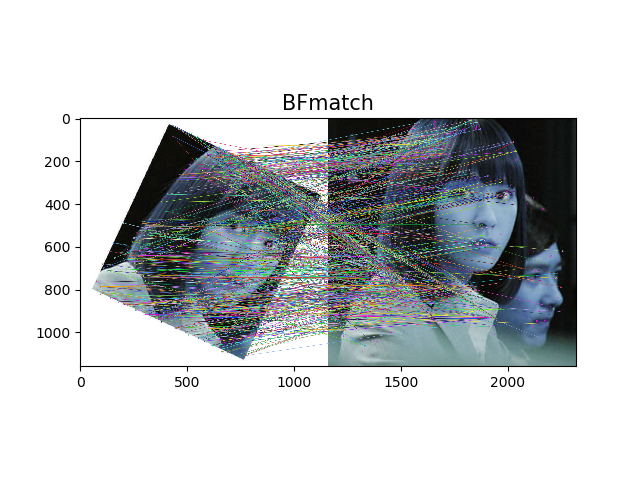
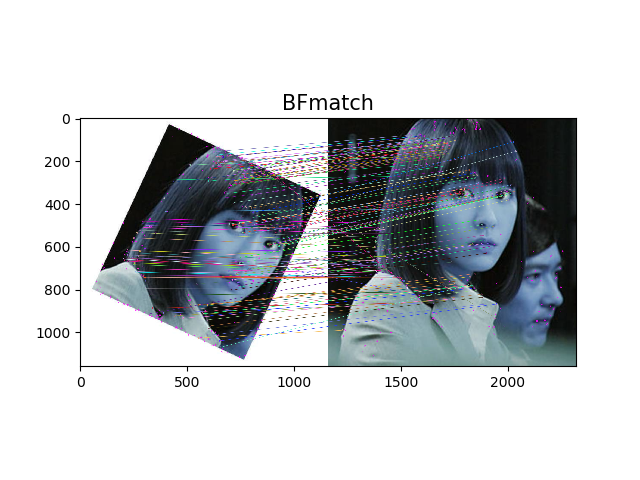
update

Changed region(s): [[0.1562, 0.25, 0.875, 0.75]]

diff --git a/4.Local Feature/SIFT_BFMatcher.py b/4.Local Feature/SIFT_BFMatcher.py
@@ -38,7 +38,7 @@ for m, n in matches:
     if m.distance < 0.75 * n.distance:
         good.append([m])
 
-img5 = cv2.drawMatchesKnn(img1, kp1, img2, kp2, matches, None, flags=2)
+img5 = cv2.drawMatchesKnn(img1, kp1, img2, kp2, good, None, flags=2)
 plt.subplot(111)
 plt.imshow(img5)
 plt.title('BFmatch', fontsize=15)
